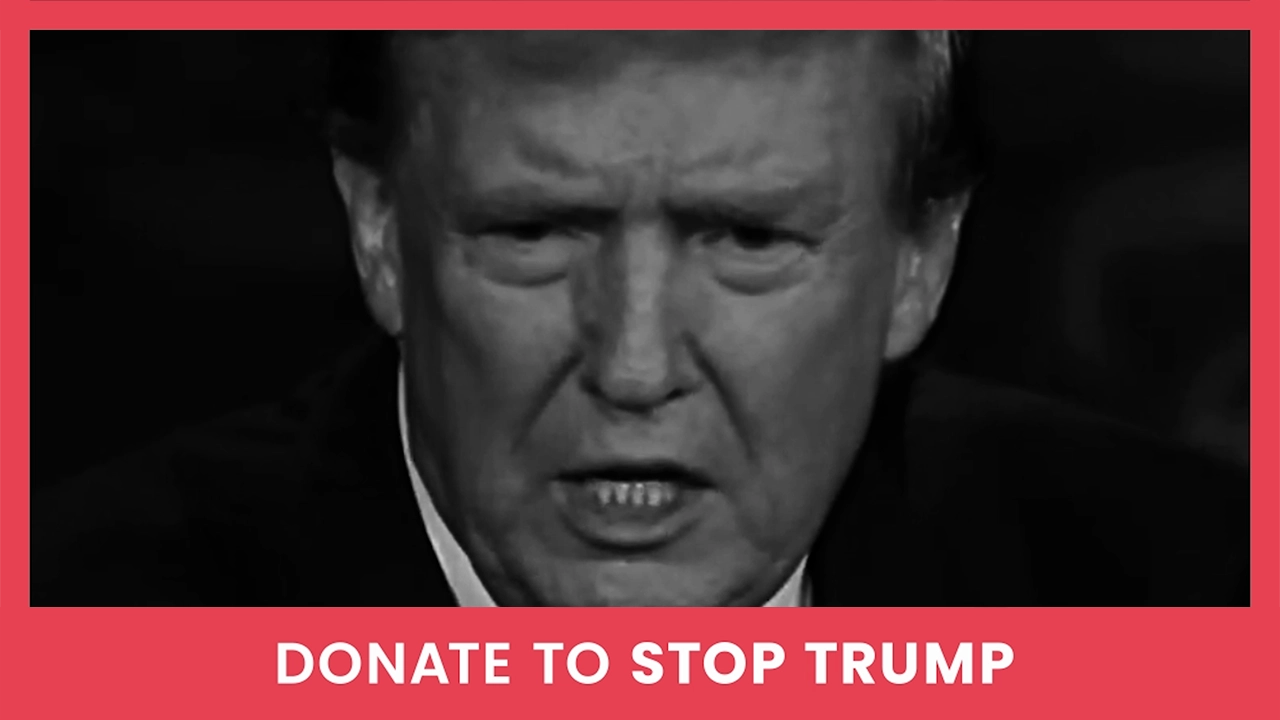
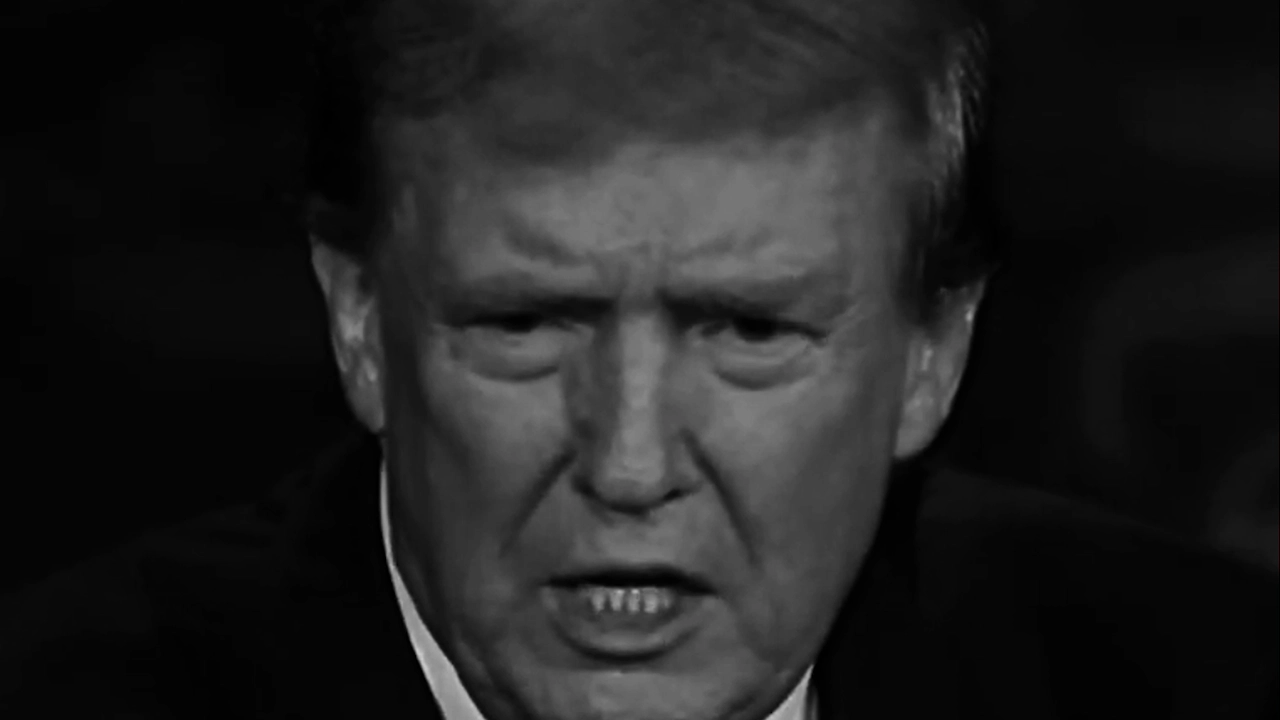
Update VL entry 1c96ba544805324684224179a6e23b8885a9ad36

diff --git a/explore/voto-latino-post-debate-ads/index.html b/explore/voto-latino-post-debate-ads/index.html
@@ -100,7 +100,7 @@
             <div id="info">
                 <div id="specs">
                     <h1 id="contentTitle">Voto Latino | Post Debate Ads</h1>
-                    <small id="date">September 26, 2024</small>
+                    <small id="date">September 20, 2024</small>
                 </div>
                 <div id="tags">
                     
